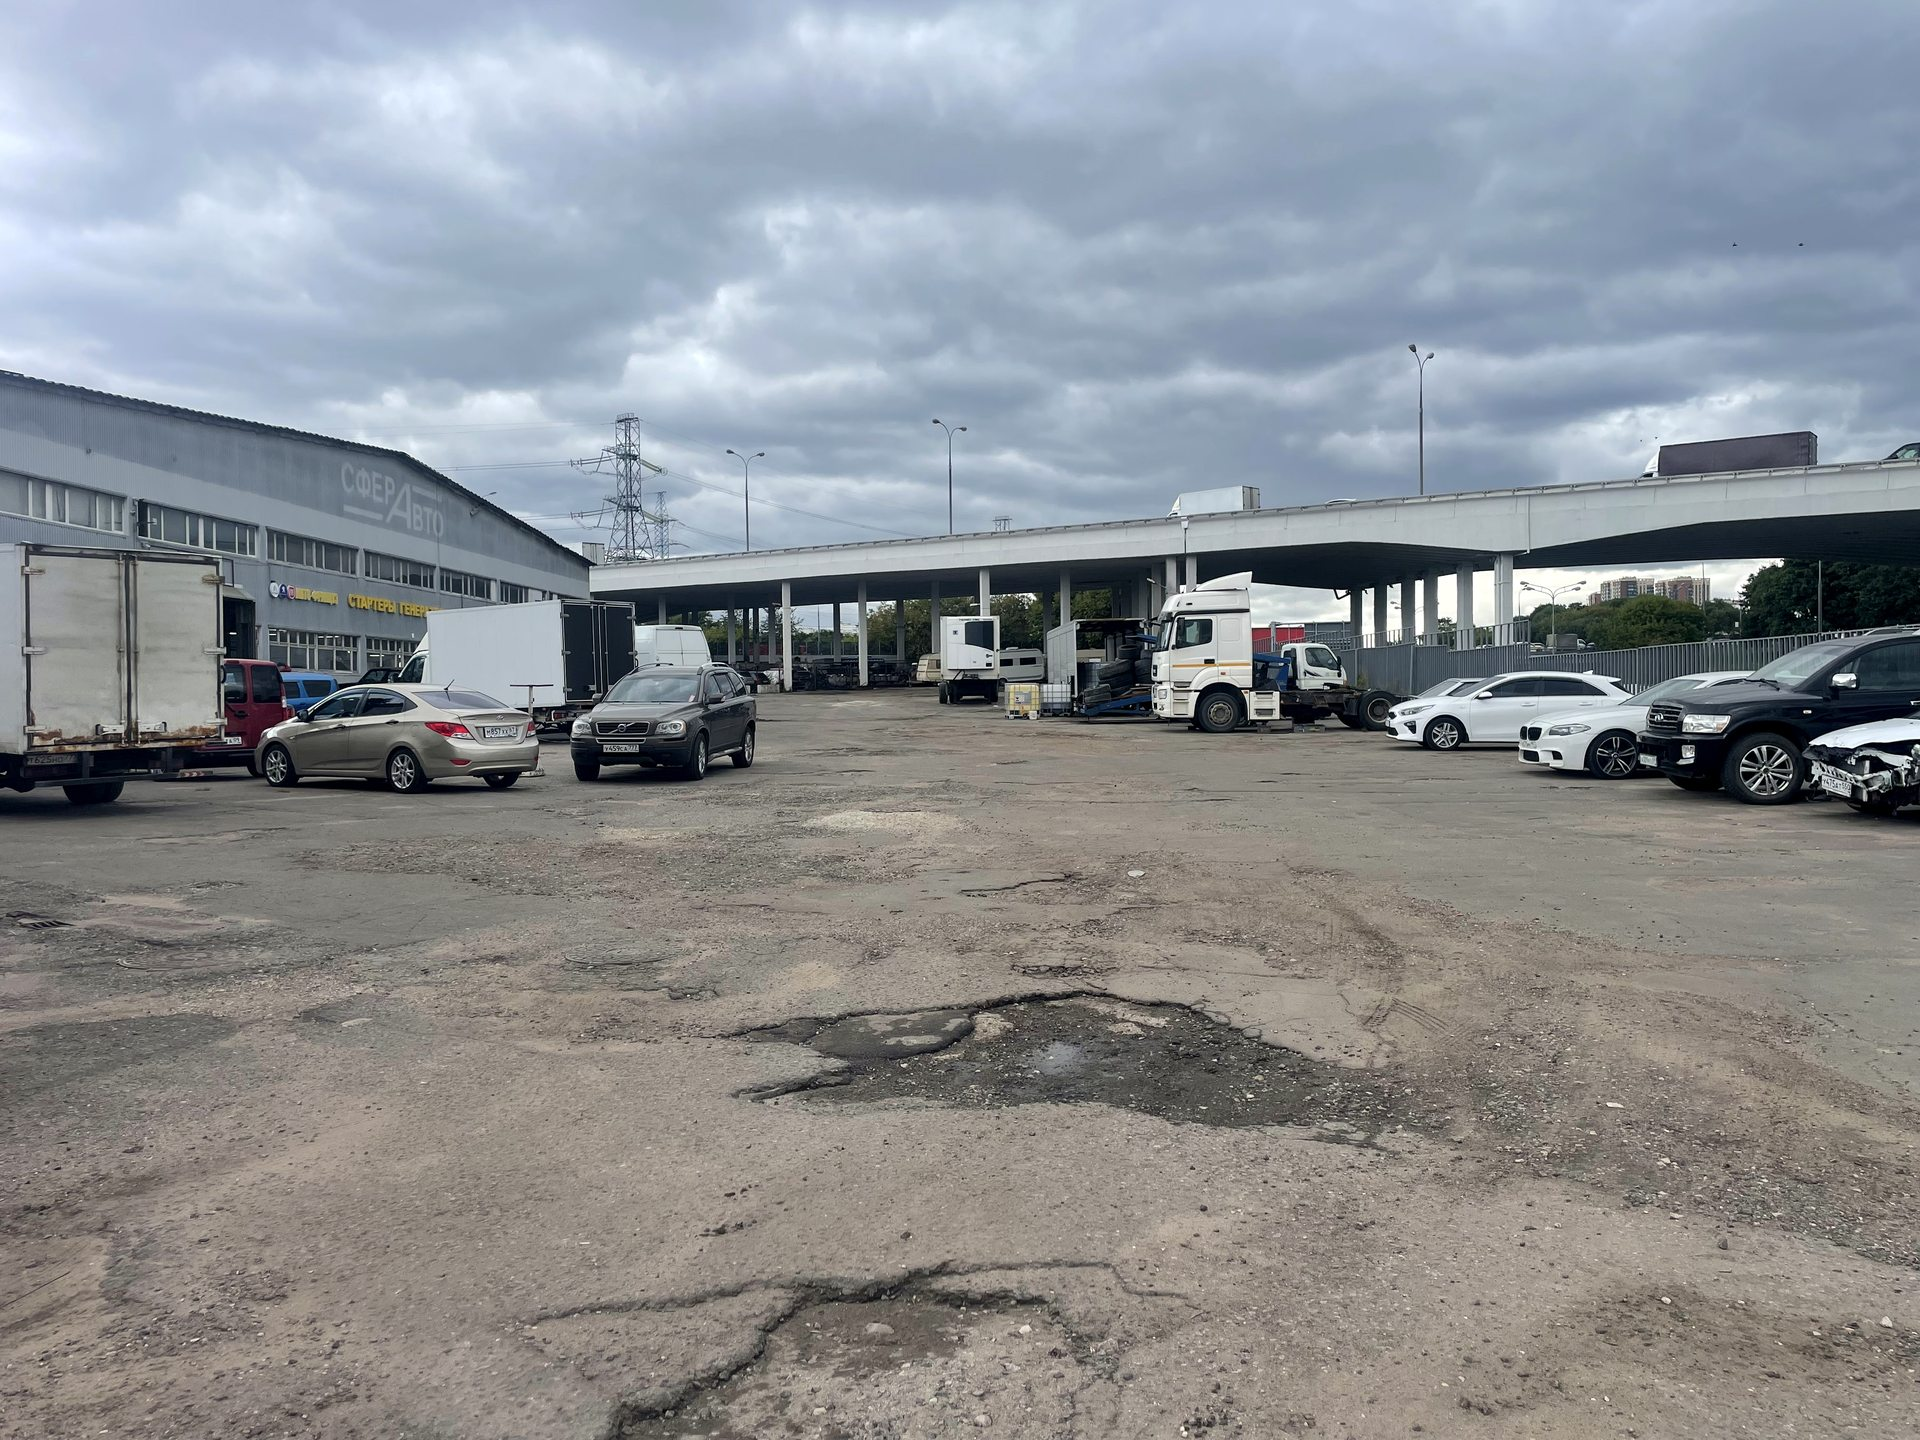
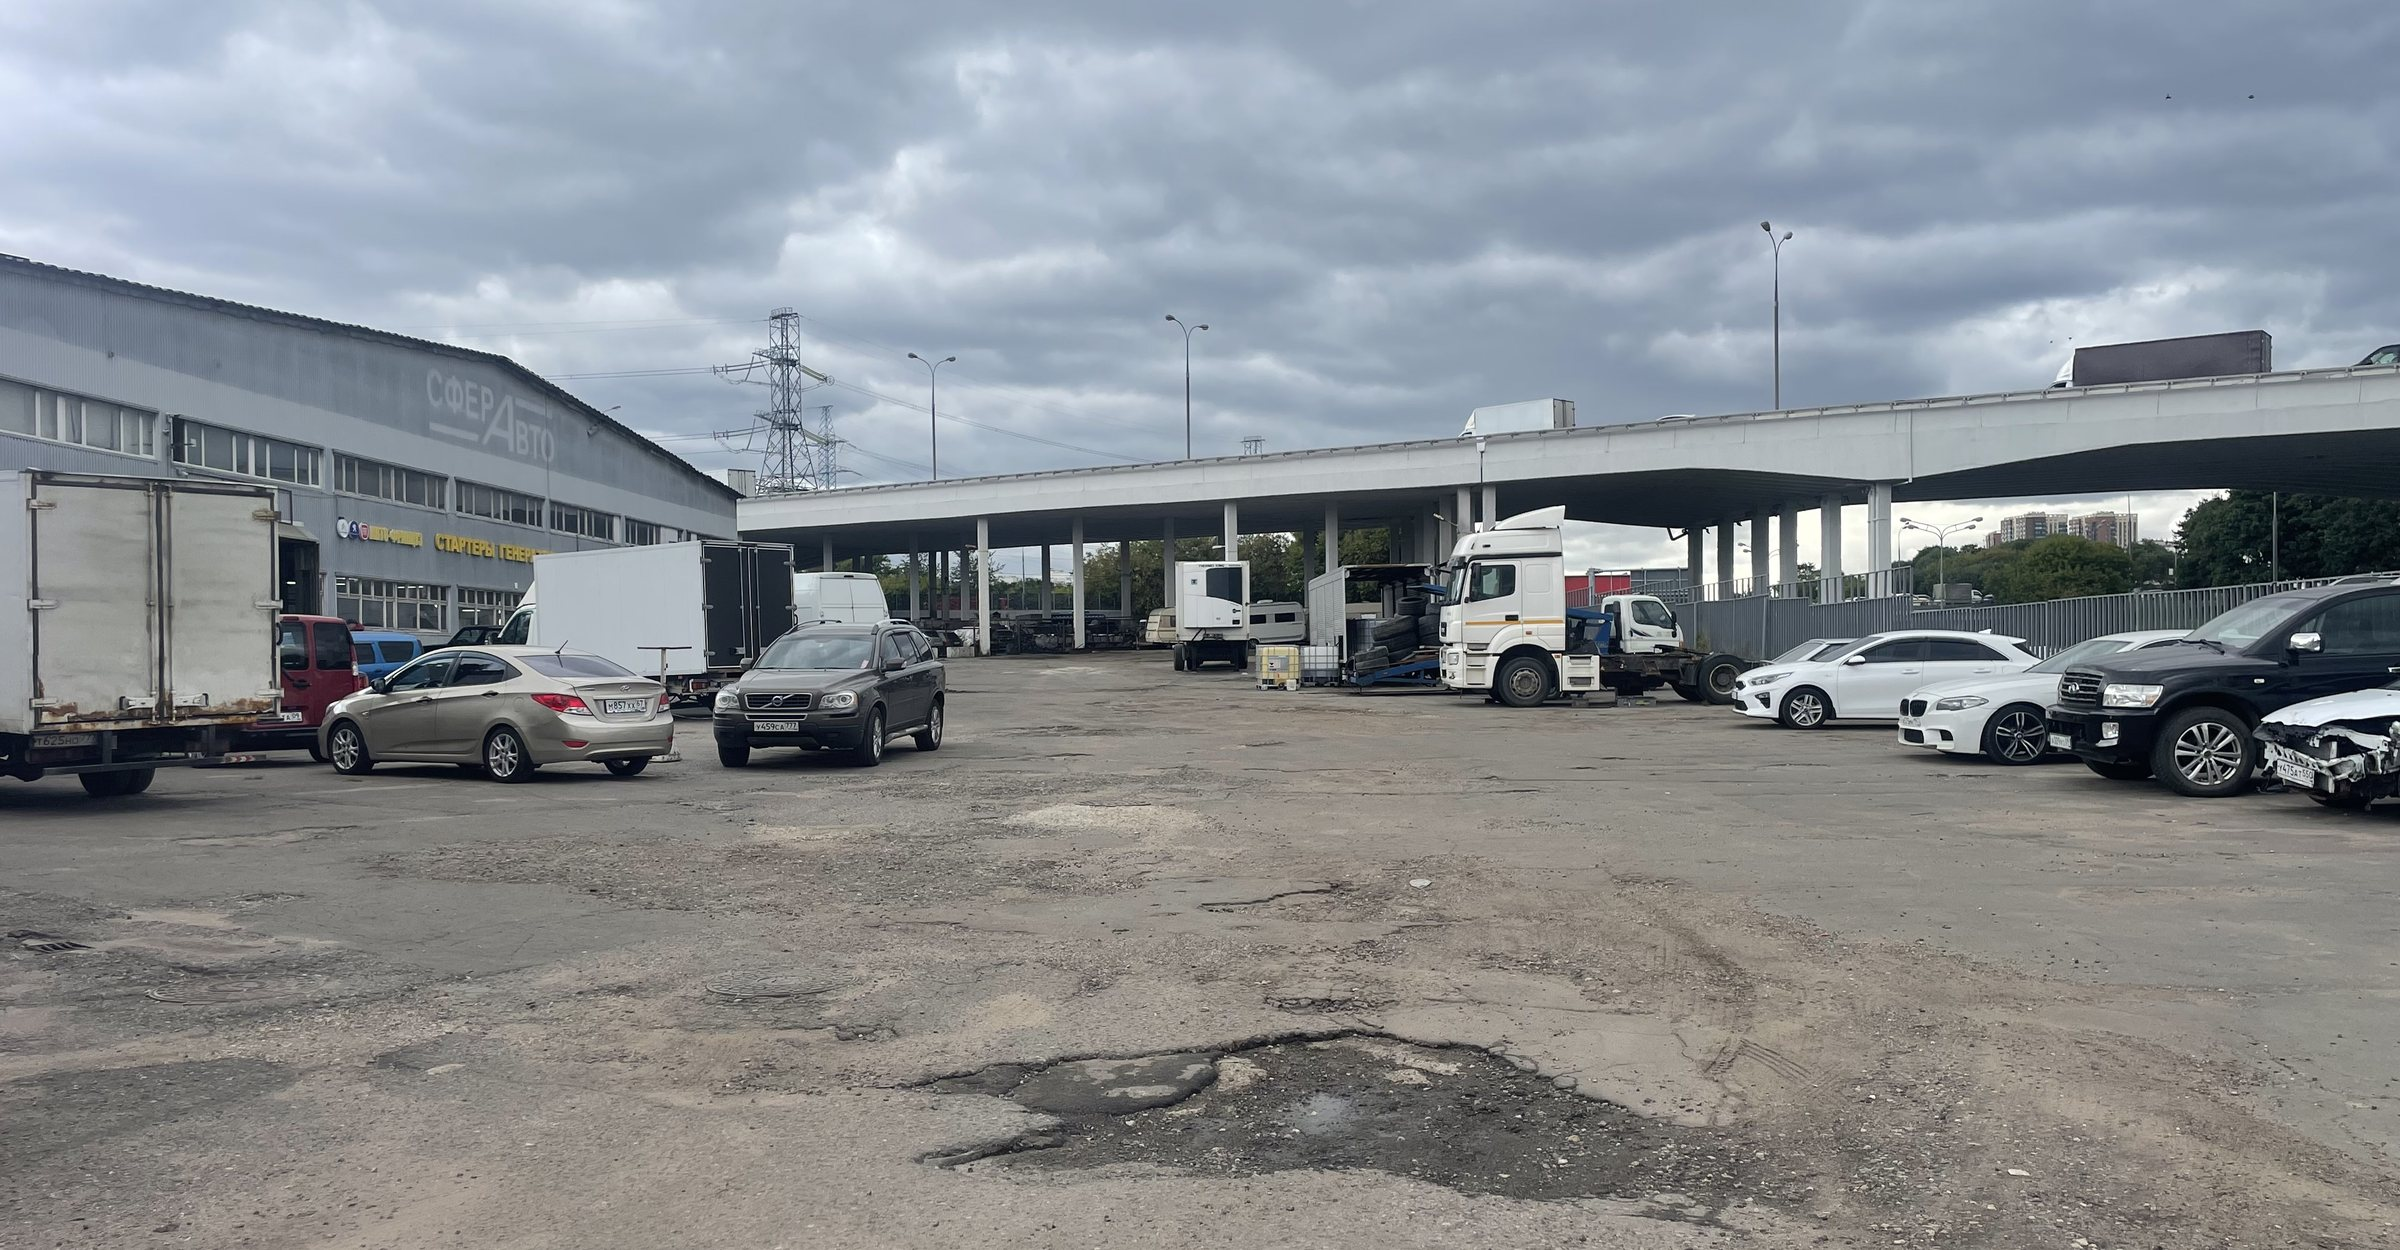
Replace the hero photo with the wide lot shot of Сфера Авто.
Use a full-width crop so the building sign, vehicles, and MKAD overpass stay in frame instead of being cropped from the sides.

diff --git a/sections/Hero.tsx b/sections/Hero.tsx
@@ -20,7 +20,7 @@ export function Hero() {
         alt="Охраняемая площадка Сфера Авто на первой линии Варшавского шоссе и МКАД"
         fill
         priority
-        className="object-cover object-[center_62%]"
+        className="object-cover object-[22%_center] md:object-center"
         sizes="100vw"
       />
       <div className="absolute inset-0 bg-gradient-to-r from-ink via-ink/78 to-ink/25" />
